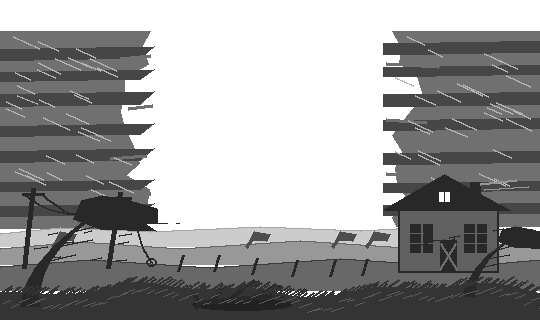
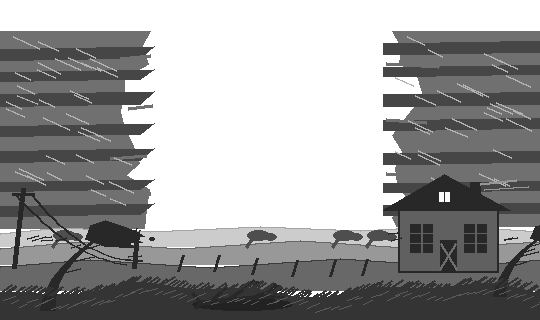
Severe weather scene: the storm the adventure line respects
Agent-drawn in 5 visual iterations: wind-torn scud walls framing the
glyph sky, downed lines by a snapped pole, bowed trees, leaning
fence, a battened farmhouse with an X-braced door and one lit gable
window. Grave, not whimsical -- nobody is outside, and that is the
point. scenes/v3/severe.png renders automatically whenever the new
severe condition fires.

diff --git a/tools/v3/severe.py b/tools/v3/severe.py
@@ -107,9 +107,9 @@ d.line([(0, 248), (80, 241), (180, 248), (300, 240), (420, 248),
 
 # small distant trees on the mid hill, all bowed the same way
 for tx in (52, 246, 332, 366):
-    d.line([(tx, 247), (tx + 8, 236)], fill=78, width=3)
-    d.polygon([(tx + 3, 240), (tx + 8, 231), (tx + 24, 234), (tx + 20, 241)],
-              fill=78)
+    d.line([(tx, 247), (tx + 7, 237)], fill=78, width=3)
+    d.ellipse([tx + 1, 230, tx + 23, 240], fill=78)
+    d.ellipse([tx + 18, 233, tx + 30, 240], fill=78)
 
 # ================================================================ PLANE 3: near field
 d.polygon([(0, 266), (90, 259), (210, 267), (340, 258), (460, 266),
@@ -128,8 +128,11 @@ def pole(x, ytop, ybot, lean):
     d.line([(xt - 11, ytop + 6), (xt + 11, ytop + 6)], fill=INK, width=3)
     return (xt, ytop + 6)
 
-p1 = pole(24, 188, 268, 9)
-p2 = pole(108, 192, 268, 12)
+p2 = pole(14, 188, 268, 9)
+# second pole snapped off mid-height: splintered stub
+d.line([(134, 268), (137, 234)], fill=INK, width=5)
+d.line([(133, 236), (137, 228)], fill=INK, width=2)
+d.line([(137, 236), (140, 230)], fill=INK, width=2)
 
 def span(a, b, sag, wid=2):
     pts = []
@@ -140,11 +143,10 @@ def span(a, b, sag, wid=2):
         pts.append((x, y))
     d.line(pts, fill=INK, width=wid)
 
-span((p1[0] - 9, p1[1]), (p2[0] - 9, p2[1]), 17)
-span((p1[0] + 9, p1[1]), (p2[0] + 9, p2[1]), 20)
-# downed line whipping from the second pole to the ground
-span((p2[0] + 9, p2[1]), (152, 262), 12)
-d.ellipse([146, 258, 156, 266], outline=INK, width=2)  # coiled end
+# lines from the standing pole droop all the way to the ground by the
+# snapped stub -- the span is down
+span((p2[0] - 8, p2[1]), (126, 264), 14)
+span((p2[0] + 8, p2[1]), (142, 260), 18)
 
 # ================================================================ FARMHOUSE (right, battened down)
 hx = 398
@@ -198,29 +200,30 @@ def bent_tree(bx, by, s, canopy=True):
     tipx, tipy = spine[-1]
     if canopy:
         # single streaming teardrop canopy with a ragged trailing edge
-        c = [(tipx - 14 * s, tipy + 2 * s), (tipx - 8 * s, tipy - 12 * s),
-             (tipx + 8 * s, tipy - 16 * s), (tipx + 28 * s, tipy - 12 * s),
-             (tipx + 48 * s, tipy - 6 * s), (tipx + 58 * s, tipy - 1 * s),
-             (tipx + 46 * s, tipy + 1 * s), (tipx + 56 * s, tipy + 5 * s),
-             (tipx + 40 * s, tipy + 6 * s), (tipx + 48 * s, tipy + 11 * s),
-             (tipx + 26 * s, tipy + 10 * s), (tipx + 6 * s, tipy + 9 * s)]
+        c = [(tipx - 12 * s, tipy + 2 * s), (tipx - 7 * s, tipy - 11 * s),
+             (tipx + 6 * s, tipy - 15 * s), (tipx + 20 * s, tipy - 11 * s),
+             (tipx + 33 * s, tipy - 6 * s), (tipx + 42 * s, tipy - 1 * s),
+             (tipx + 33 * s, tipy + 1 * s), (tipx + 40 * s, tipy + 5 * s),
+             (tipx + 28 * s, tipy + 6 * s), (tipx + 34 * s, tipy + 10 * s),
+             (tipx + 19 * s, tipy + 9 * s), (tipx + 5 * s, tipy + 8 * s)]
         d.polygon(c, fill=INK)
     # whipping branches off the lee side
-    for t, ln in ((0.5, 22), (0.7, 26), (0.85, 18)):
+    for t, ln in ((0.5, 18), (0.7, 22), (0.85, 15)):
         i = int(t * 12)
         x0, y0 = spine[i]
         d.line([(x0, y0), (x0 + s * ln, y0 - s * 5)], fill=INK, width=max(2, int(2 * s)))
     # torn leaves streaming downwind of the canopy
     for _ in range(int(7 * s)):
-        lx = tipx + s * R.uniform(46, 78)
+        lx = tipx + s * R.uniform(46, 62)
         ly = tipy + s * R.uniform(-8, 10)
-        d.ellipse([lx, ly, lx + 5, ly + 3], fill=INK)
+        if lx < 150 or lx > RM:
+            d.ellipse([lx, ly, lx + 5, ly + 3], fill=INK)
     return tipx, tipy
 
-# big windward tree, left foreground (canopy stays left of x=156 after scrub)
-bent_tree(30, 306, 1.35)
-# smaller tree behind/right of the house, same bow
-bent_tree(470, 296, 0.85, canopy=True)
+# big windward tree, left foreground, drawn over the pole (canopy < x=156)
+bent_tree(48, 310, 1.1)
+# smaller tree at the right edge, same bow, canopy streaming off-canvas
+bent_tree(500, 296, 0.9, canopy=True)
 
 # ================================================================ SNAPPED BRANCH down in the yard (center-bottom)
 bx0, by0 = 200, 302
@@ -253,9 +256,9 @@ for _ in range(9):
     x = R.uniform(8, 138)
     y = R.uniform(232, 262)
     d.line([(x, y), (x + R.uniform(7, 14), y - R.uniform(1, 4))], fill=INK, width=2)
-for _ in range(6):
-    x = R.uniform(392, 516)
-    y = R.uniform(230, 250)
+for _ in range(5):
+    x = R.uniform(386, 396) if R.random() < 0.4 else R.uniform(504, 526)
+    y = R.uniform(230, 252)
     d.line([(x, y), (x + R.uniform(7, 14), y - R.uniform(1, 4))], fill=INK, width=2)
 
 # ================================================================ SAFETY SCRUB: force glyph zone + date strip white
